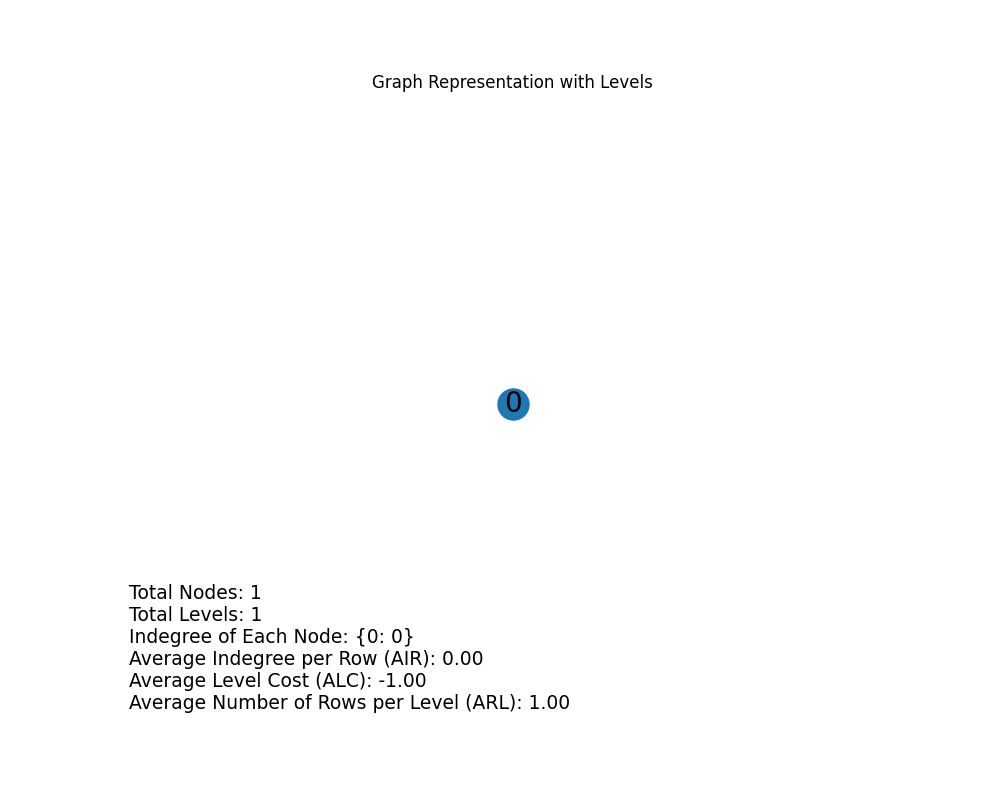
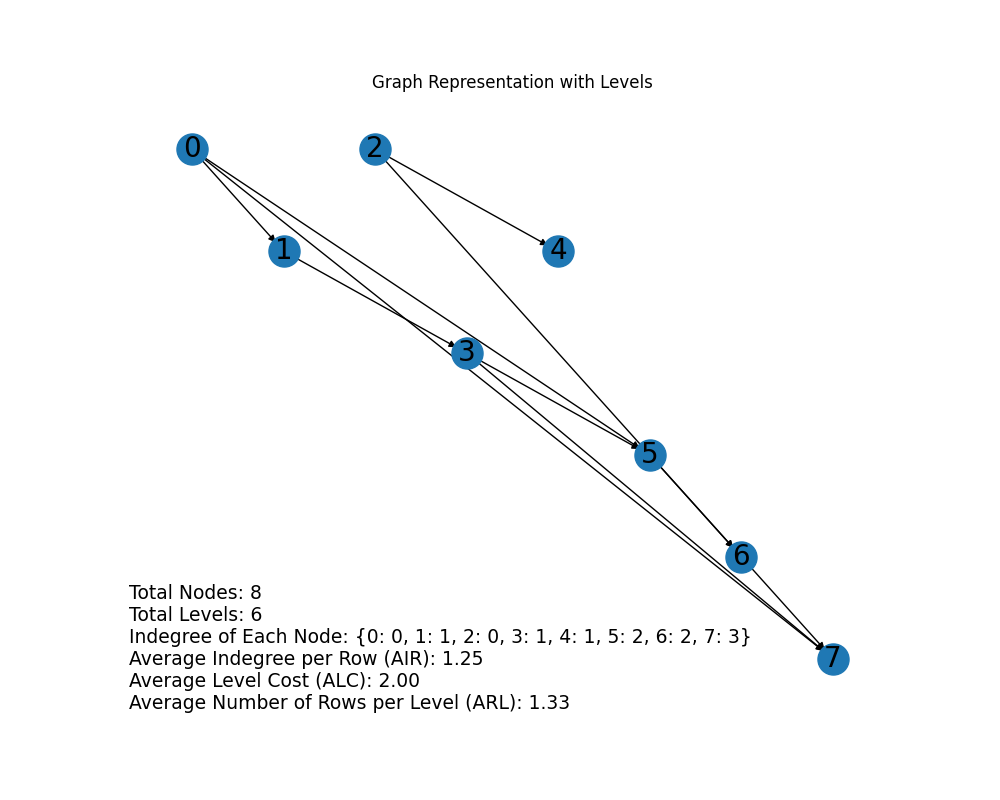
Implemented mtx to csr (all mtx files are usable)

diff --git a/environment.py b/environment.py
@@ -7,9 +7,6 @@ class Environment:
     
     def __init__(self, matrix):
 
-        if not self.is_lower_triangular(matrix):
-            raise ValueError("Matrix must be lower triangular")
-
         self.matrix = matrix
         self.G = nx.DiGraph()
         self.levels = {}
@@ -17,30 +14,21 @@ class Environment:
         self.calculate_graph_metrics()
 
 
-    def is_lower_triangular(self, matrix):
-        """ Check if a matrix is lower triangular. """
-        if not isinstance(matrix, np.ndarray):
-            raise ValueError("Matrix must be a numpy array")
-        
-        if matrix.shape[0] != matrix.shape[1]:
-            raise ValueError("Matrix must be square")
-        
-        return np.all(matrix == np.tril(matrix))
-
-
     def convert_matrix_to_graph(self):
-        """ Convert the matrix to a graph and calculate levels. """
-        """ Logical Equavilant of Lx=b """
+        rows, cols = self.matrix.nonzero()
+
         for x in range(self.matrix.shape[0]):
             self.G.add_node(x)
-            node_has_edge = False
             self.levels[x] = 0
-            for j in range(x):
-                if self.matrix[x][j] != 0:
-                    self.G.add_edge(j, x)
-                    node_has_edge = True
-                    self.levels[x] = max(self.levels[x], self.levels[j] + 1)
-            if not node_has_edge and x != 0:  # Node 0 is kept as the root
+
+        for row, col in zip(rows, cols):
+            if row > col:  # Ensuring lower triangular structure
+                self.G.add_edge(col, row)
+                self.levels[row] = max(self.levels[row], self.levels[col] + 1)
+
+        # Remove nodes without edges, except for node 0
+        for x in range(1, self.matrix.shape[0]):
+            if not self.G.out_degree(x) and not self.G.in_degree(x):
                 self.G.remove_node(x)
 
     def is_level_empty(self,level):
@@ -160,20 +148,6 @@ class Environment:
         return alc_numerator / alc_denominator if alc_denominator else 0
 
 
-    def nodes_vector(self, node):
-        """ Writes a vector for each moved node in a graph """
-        if not self.node.isnumeric():
-            raise ValueError(f"Cant Move {self.node} The given node is not integer")
-
-        if node > self.G.number_of_edges():
-            raise ValueError("out of node number")
-
-
-    def nodes_movement_watcher(self):
-        """ This watcher will paire the random generated graph with the moved nodes and nodes's vectors """
-        pass
-
-
     def generate_info_text(self):
         """ Generate information text about the graph metrics. """
         return (
@@ -186,24 +160,10 @@ class Environment:
         )
 
 
-""" will be our main source, sparse.tamu.edu
-matrix = np.array([
-    [1, 0, 0, 0, 0, 0, 0, 0],
-    [1, 1, 0, 0, 0, 0, 0, 0],
-    [0, 0, 1, 0, 0, 0, 0, 0],
-    [0, 1, 0, 1, 0, 0, 0, 0],
-    [0, 0, 1, 0, 1, 0, 0, 0],
-    [1, 0, 0, 1, 0, 1, 0, 0],
-    [0, 0, 1, 0, 0, 1, 1, 0],
-    [1, 0, 0, 1, 0, 0, 1, 1],
-
-])
-"""
-
-matrix = mtx_to_array("bcsstk10.mtx")
+matrix = mtx_to_array("new_matrix.mtx")
 env = Environment(matrix)
 env.draw_graph(name="init_graph")
-node_to_move=25
+node_to_move=3
 env.move_node_to_higher_level(node_to_move)
 env.calculate_graph_metrics()
 updated_info_text = env.generate_info_text()

diff --git a/mtx_to_array.py b/mtx_to_array.py
@@ -2,14 +2,12 @@ import scipy.io
 import scipy.sparse
 
 def mtx_to_array(file_name):
-    # Load mtx file as a sparse matrix
     mtx_file = file_name  # path of the .mtx file
     sparse_matrix = scipy.io.mmread(mtx_file)
 
     # Extract the upper triangular part of the matrix
     lower_triangular = scipy.sparse.tril(sparse_matrix)
+    # Convert to CSR format
+    lower_triangular = lower_triangular.tocsr()
 
-    # Convert it to a dense numpy array
-    # Currently we can't convert a matrix bigger than 20000x20000 (approx) (needs too much RAM)
-    dense_array = lower_triangular.toarray()
-    return dense_array
+    return lower_triangular
